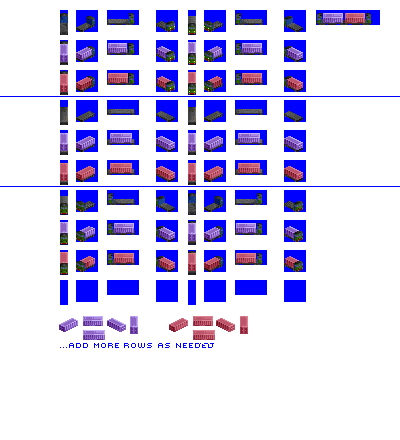
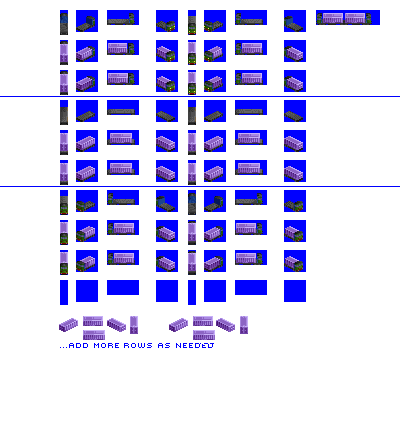
Codechange: containers only have one input colour, simplify the graphics processing for them

diff --git a/src/graphics_processor/utils.py b/src/graphics_processor/utils.py
@@ -7,19 +7,10 @@ def make_colour_map(input, output, map_size):
     return result
 
 def get_container_recolour_maps():
-    CC1 = graphics_constants.CC1
-    CC2 = graphics_constants.CC2
-    map_1 = make_colour_map(170, CC1, 8)
-    map_1.update(make_colour_map(42, CC1, 8))
-
-    map_2 = make_colour_map(170, CC2, 8)
-    map_2.update(make_colour_map(42, CC2, 8))
-
+    map_1 = make_colour_map(170, graphics_constants.CC1, 8)
+    map_2 = make_colour_map(170, graphics_constants.CC2, 8)
     map_3 = make_colour_map(170, 8, 8)
-    map_3.update(make_colour_map(42, 8, 8))
-
     return (map_1, map_2, map_3)
-
 
 def get_bulk_cargo_recolour_maps():
     # this is interim glue to the old methods whilst porting the Road Hog graphics processor to Iron Horse
